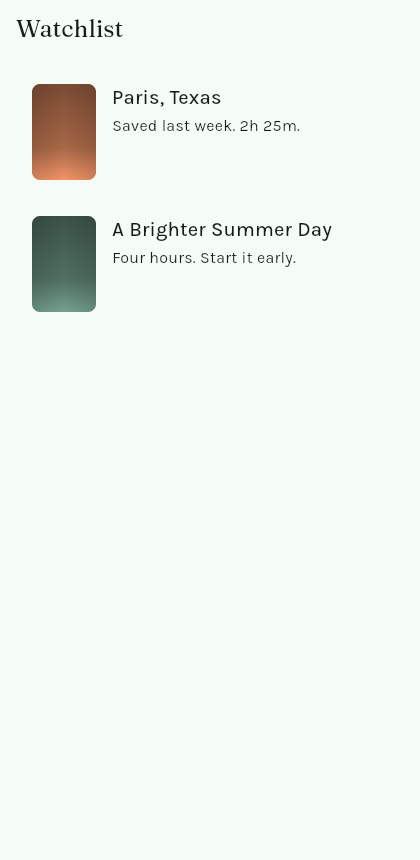
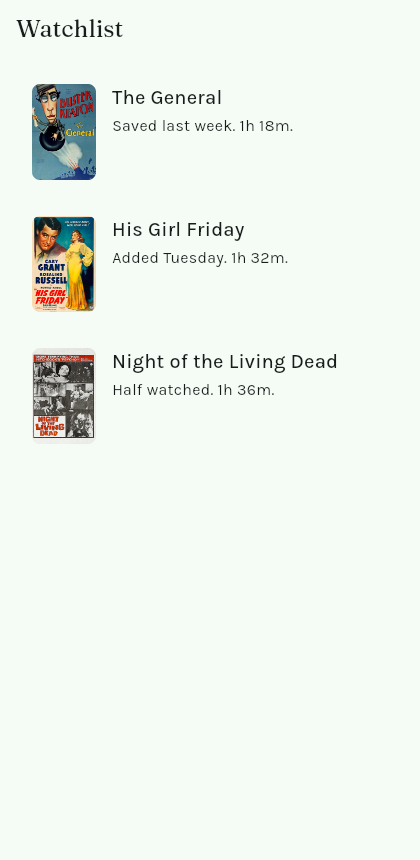
docs(example): use public-domain film posters

diff --git a/examples/watchlist/tool/screenshots.dart b/examples/watchlist/tool/screenshots.dart
@@ -12,14 +12,19 @@ import 'package:watchlist/theme.dart';
 
 const _entries = [
   Entry(
-    title: 'Paris, Texas',
-    note: 'Saved last week. 2h 25m.',
-    poster: 'assets/posters/paris-texas.png',
+    title: 'The General',
+    note: 'Saved last week. 1h 18m.',
+    poster: 'assets/posters/the-general.png',
   ),
   Entry(
-    title: 'A Brighter Summer Day',
-    note: 'Four hours. Start it early.',
-    poster: 'assets/posters/brighter-summer-day.png',
+    title: 'His Girl Friday',
+    note: 'Added Tuesday. 1h 32m.',
+    poster: 'assets/posters/his-girl-friday.jpg',
+  ),
+  Entry(
+    title: 'Night of the Living Dead',
+    note: 'Half watched. 1h 36m.',
+    poster: 'assets/posters/night-of-the-living-dead.jpg',
   ),
 ];
 

diff --git a/examples/watchlist/lib/main.dart b/examples/watchlist/lib/main.dart
@@ -7,14 +7,19 @@ import 'theme.dart';
 
 const _entries = [
   Entry(
-    title: 'Paris, Texas',
-    note: 'Saved last week. 2h 25m.',
-    poster: 'assets/posters/paris-texas.png',
+    title: 'The General',
+    note: 'Saved last week. 1h 18m.',
+    poster: 'assets/posters/the-general.png',
   ),
   Entry(
-    title: 'A Brighter Summer Day',
-    note: 'Four hours. Start it early.',
-    poster: 'assets/posters/brighter-summer-day.png',
+    title: 'His Girl Friday',
+    note: 'Added Tuesday. 1h 32m.',
+    poster: 'assets/posters/his-girl-friday.jpg',
+  ),
+  Entry(
+    title: 'Night of the Living Dead',
+    note: 'Half watched. 1h 36m.',
+    poster: 'assets/posters/night-of-the-living-dead.jpg',
   ),
 ];
 

diff --git a/examples/watchlist/README.md b/examples/watchlist/README.md
@@ -27,7 +27,7 @@ The before version of the same screen:
 
 The TV screen, with the first tile focused:
 
-![The TV screen: two tiles inside an overscan margin, the focused one scaled up with a green border](docs/tv.png)
+![The TV screen: three poster tiles inside an overscan margin, the focused one scaled up with a green border](docs/tv.png)
 
 Every one is a real render captured from the running app. `tool/screenshots.sh` rebuilds and recaptures them. It needs Flutter and Chrome, and it is the only part of this repo that does.
 
@@ -43,7 +43,7 @@ flutter create --platforms=android,ios .
 flutter run
 ```
 
-Fonts and posters are committed, so it runs as it stands. Both faces are under the SIL Open Font License; `fonts/README.md` has the details. The posters are flat-colour placeholders, and `library_after.dart` handles a failed load with `errorBuilder`, so replacing or deleting them both render.
+Fonts and posters are committed, so it runs as it stands. Both faces are under the SIL Open Font License and the three posters are public domain, with sources in `fonts/README.md` and `assets/posters/README.md`. `library_after.dart` handles a failed load with `errorBuilder`, so swapping the images or deleting them both render.
 
 ## What the after version does differently
 

diff --git a/examples/watchlist/assets/posters/README.md b/examples/watchlist/assets/posters/README.md
@@ -1,7 +1,17 @@
 # Posters
 
-Two-pixel flat-colour placeholders, so the assets declared in `pubspec.yaml`
-resolve and the example runs without shipping artwork nobody licensed.
+Real film posters, all in the public domain, from Wikimedia Commons. An example
+that claims to care about design should not illustrate itself with grey boxes.
 
-`library_after.dart` also handles a failed load with `errorBuilder`, so
-replacing these with real images, or deleting them, both render.
+| File | Film | Source |
+|---|---|---|
+| `the-general.png` | The General (1926) | [Commons](https://commons.wikimedia.org/wiki/File:The_General_(1926)_-_Movie_Poster_2.png) |
+| `his-girl-friday.jpg` | His Girl Friday (1940) | [Commons](https://commons.wikimedia.org/wiki/File:His_Girl_Friday_(1940_poster).jpg) |
+| `night-of-the-living-dead.jpg` | Night of the Living Dead (1968) | [Commons](https://commons.wikimedia.org/wiki/File:Night_Of_The_Living_Dead_(1968)_-_Poster.jpg) |
+
+Each is tagged public domain on Commons: the first two by age, the third
+because it was released without a copyright notice. They are downscaled
+thumbnails, unmodified otherwise.
+
+`library_after.dart` handles a failed load with `errorBuilder`, so swapping
+these for your own, or deleting them, both render.
